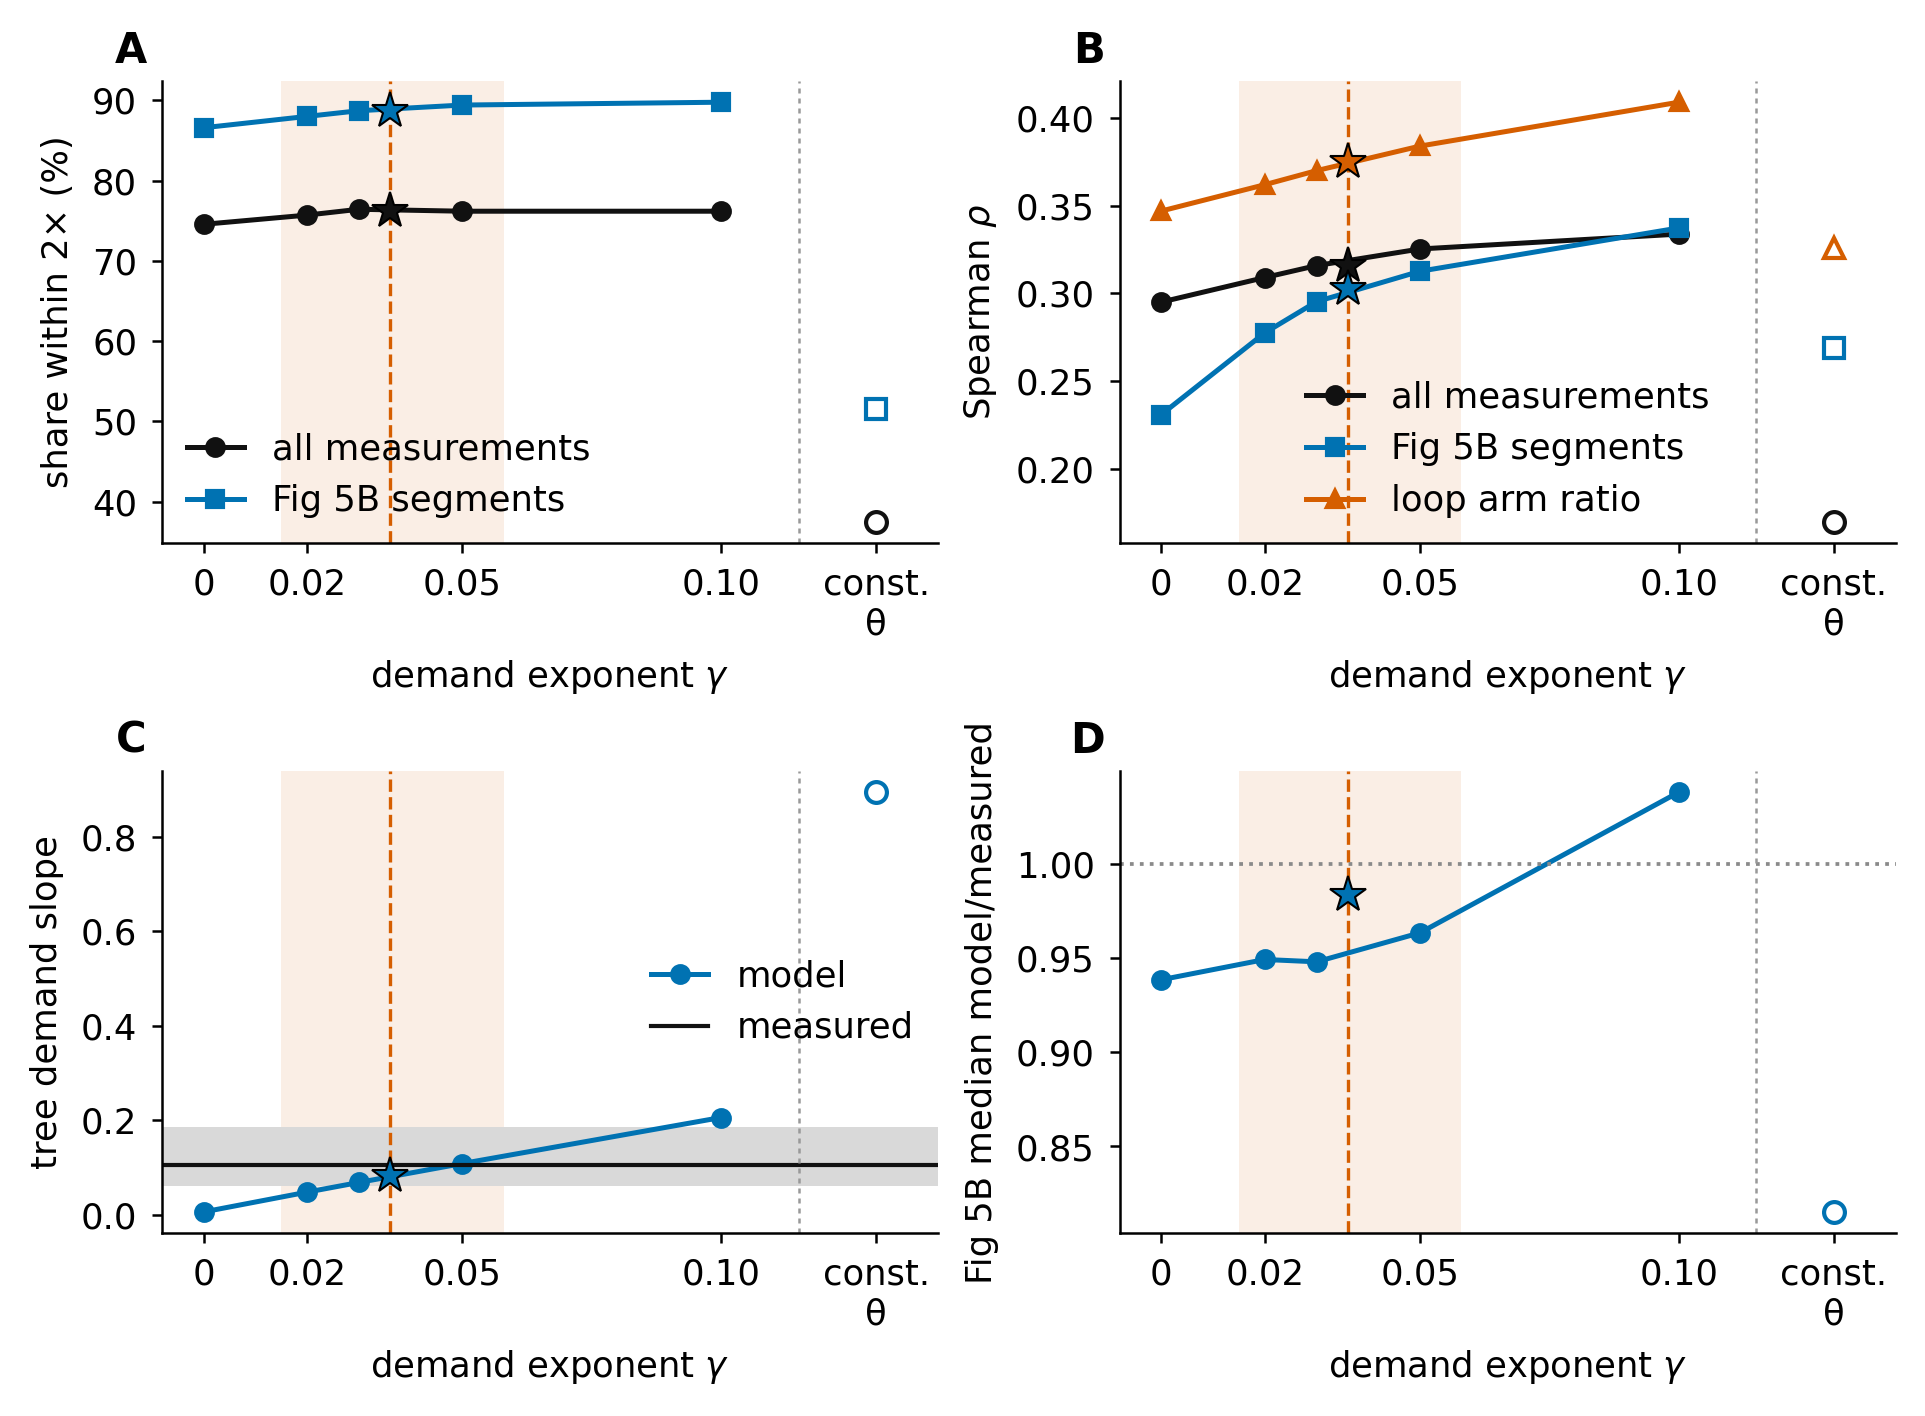
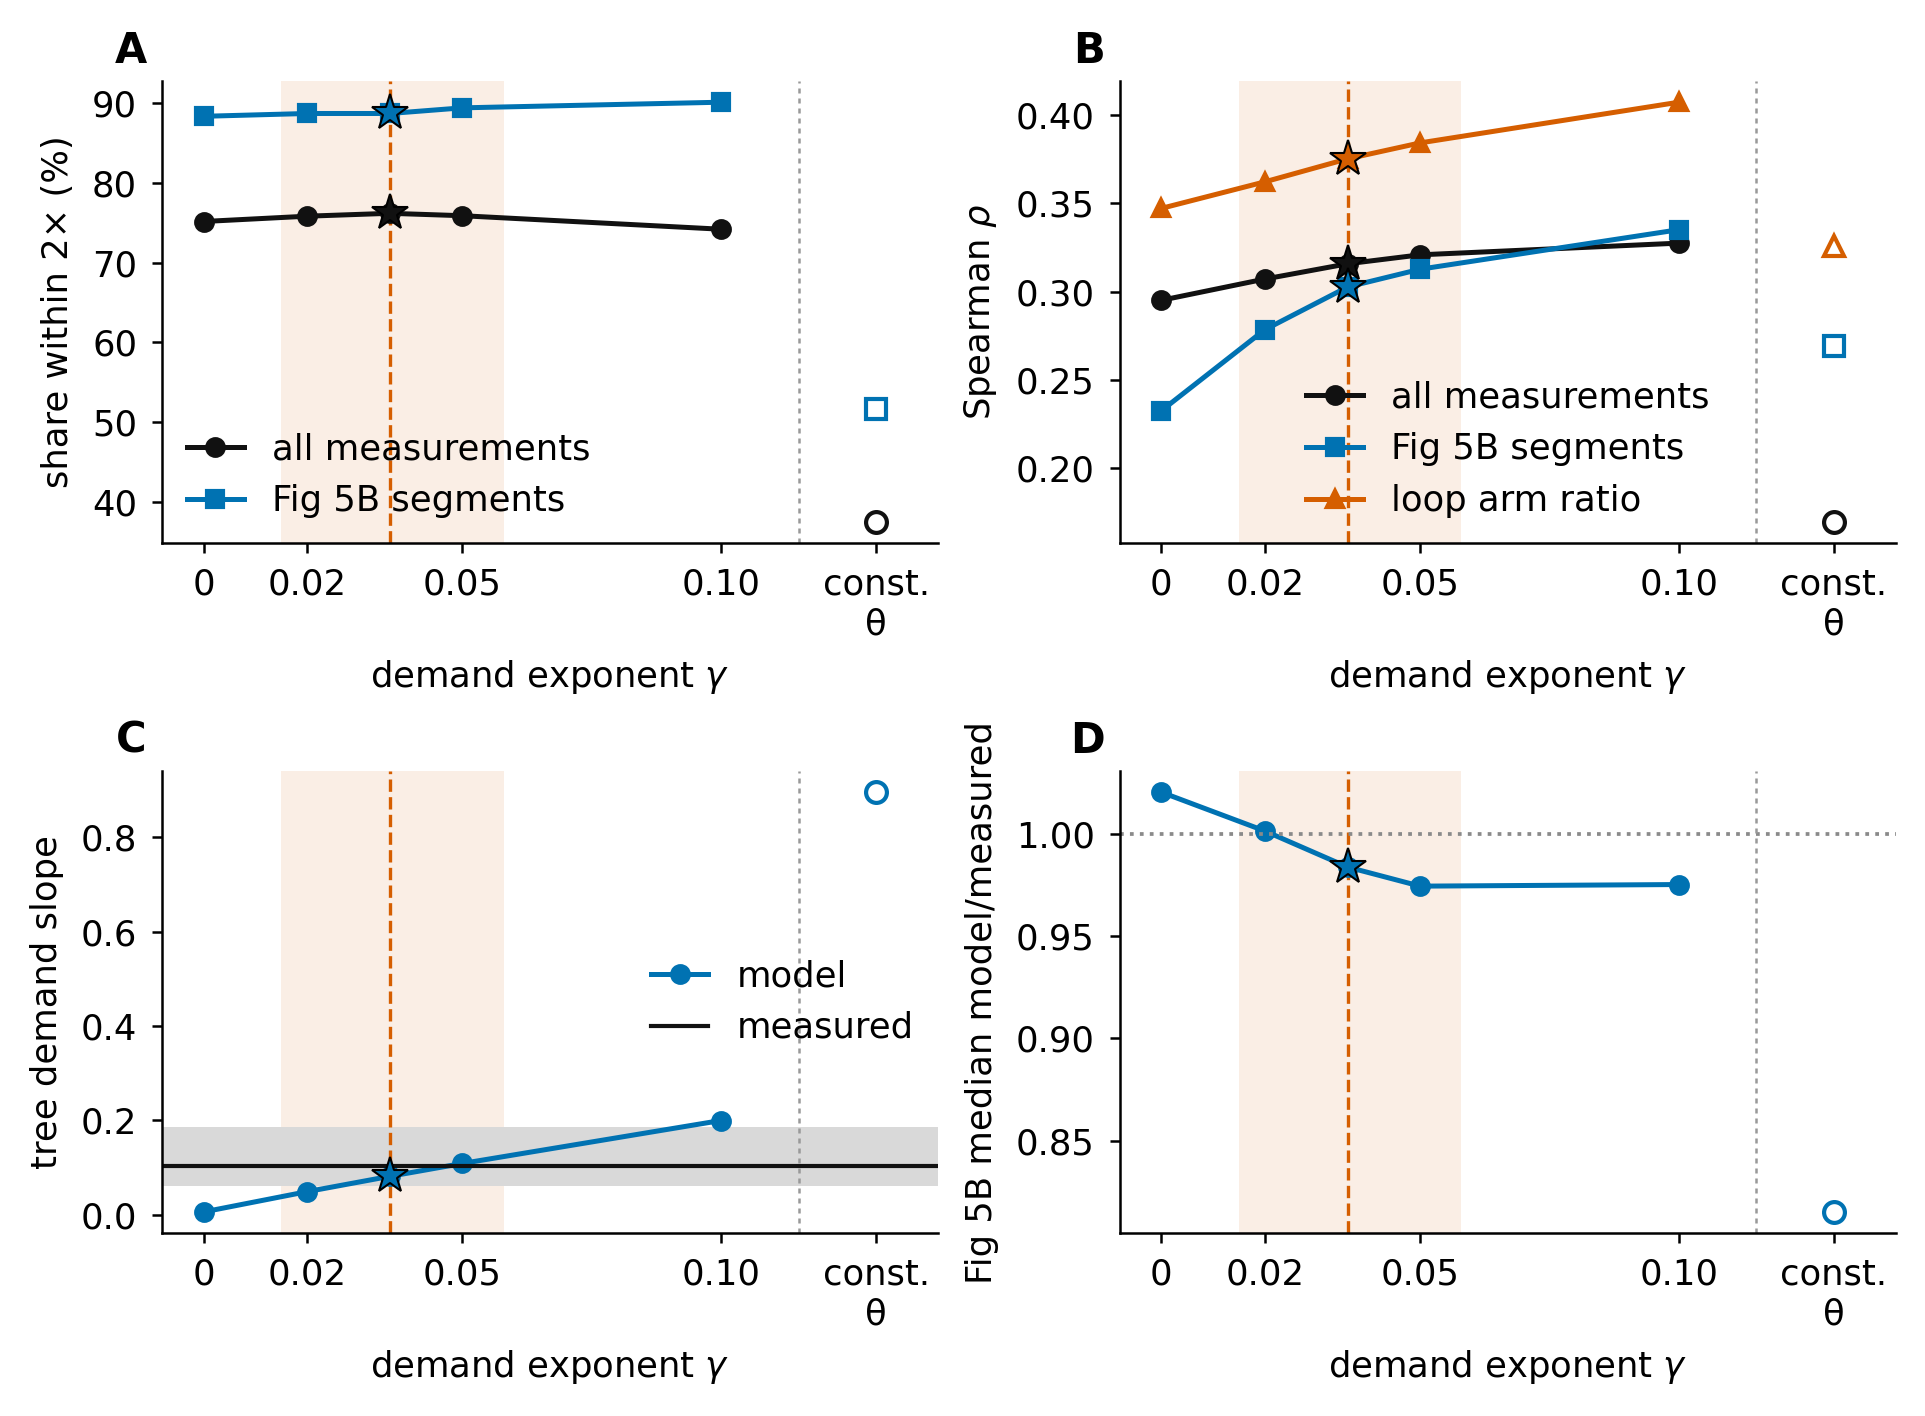
SI gamma sweep on the paper calibration (all points f_m0 0.549, J_ref 2.41); NOTE updated
Snellius 29528422: gamma 0 / 0.02 / 0.036 / 0.05 / 0.10 with the paper calibration; gamma 0.036 reproduces the paper run
exactly. Constant theta 0.03 stays the end marker. No caption prose.

Claude-Session: https://claude.ai/code/session_01S72jkhwWePwGSeZiNtr7qB

diff --git a/02_Article_Supplementary.tex b/02_Article_Supplementary.tex
@@ -852,7 +852,7 @@ This could explain why active transport mechanisms at high speeds are necessary 
 \begin{figure}[htbp]
 \centering
 \includegraphics[width=\textwidth]{suppfig/figS_gamma_sweep.pdf}
-% NOTE (20 Nov, gamma sweep with the constant-theta end marker; caption facts only, words are the user's; source AMF_Transport/scratch/si_paper_figs/gamma_sweep_table.md, script gamma_sweep_fig.py there): whole-network scores against the demand exponent gamma. (A) share within a factor 2, all 1,654 measurements (black) and the 283 Fig 5B trail segments (blue); (B) Spearman rho, all measurements, Fig 5B segments, loop arm ratio (421 loops); (C) tree demand slope (log rootward speed on log J, width controlled) against the measured +0.104 [0.061, 0.186] (line, grey band); (D) Fig 5B median model/measured. Shaded band: Bayes tree-edge posterior of gamma, 95 % interval 0.015-0.058, dashed line its median 0.036. Values: gamma 0 / 0.02 / 0.03 / 0.05 / 0.10: all within 2x 74.5 / 75.7 / 76.4 / 76.2 / 76.2 %; 5B within 2x 86.6 / 88.0 / 88.7 / 89.4 / 89.8 %; all rho 0.30 / 0.31 / 0.32 / 0.33 / 0.33; 5B rho 0.23 / 0.28 / 0.30 / 0.31 / 0.34; loops rho 0.35 / 0.36 / 0.37 / 0.38 / 0.41; tree slope +0.005 / +0.047 / +0.068 / +0.108 / +0.206; 5B median 0.94 / 0.95 / 0.95 / 0.96 / 1.04. Paper model (star, gamma 0.036): 76.2 %, 88.7 %, rho 0.32 / 0.30 / 0.375, slope +0.081, median 0.98. Constant theta (open symbols, best of theta 0.005-0.15, theta 0.03): 37.5 % / 51.6 % within 2x, rho 0.17 / 0.27 / 0.33, tree slope +0.90, 5B median 0.82; at theta 0.03, 40 % of edges sit on the a/b limits 0.45-0.95 (65 % at 0.005, 62 % at 0.15), so no single theta works. The sweep points hold f_m0 0.528 at J_ref 1.23 um^3/s and vary gamma only; the paper model (star) has its own fitted f_m0 0.549 at J_ref 2.41, hence its 5B median above the line. A rerun of the sweep on the paper calibration (Snellius 29524194) will replace the points and put the star on the line.
+% NOTE (20 Nov, gamma sweep on the paper calibration with the constant-theta end marker; caption facts only, words are the user's; source AMF_Transport/scratch/si_paper_figs/gamma_sweep_table.md, script gamma_sweep_fig.py there; runs Snellius 29528422): whole-network scores against the demand exponent gamma, every run on the paper calibration (f_m0 0.549 at J_ref 2.41 um^3/s, theta_e from the current; only gamma varies; gamma 0.036 = the paper model, star, reproduces the paper run exactly). (A) share within a factor 2, all 1,654 measurements (black) and the 283 Fig 5B trail segments (blue); (B) Spearman rho, all measurements, Fig 5B segments, loop arm ratio (421 loops); (C) tree demand slope (log rootward speed on log J, width controlled) against the measured +0.104 [0.061, 0.186] (line, grey band); (D) Fig 5B median model/measured. Shaded band: Bayes tree-edge posterior of gamma, 95 % interval 0.015-0.058, dashed line its median 0.036. Values gamma 0 / 0.02 / 0.036 / 0.05 / 0.10: all within 2x 75.2 / 75.8 / 76.2 / 75.9 / 74.2 %; 5B within 2x 88.3 / 88.7 / 88.7 / 89.4 / 90.1 %; all rho 0.295 / 0.307 / 0.316 / 0.321 / 0.327; 5B rho 0.23 / 0.28 / 0.30 / 0.31 / 0.34; loops rho 0.35 / 0.36 / 0.375 / 0.38 / 0.41; tree slope +0.006 / +0.049 / +0.081 / +0.109 / +0.200; 5B median 1.02 / 1.00 / 0.98 / 0.97 / 0.98; f_m median 0.549 / 0.544 / 0.540 / 0.537 / 0.524, never clipped. Constant theta (open symbols, best of theta 0.005-0.15, theta 0.03): 37.5 % / 51.6 % within 2x, rho 0.17 / 0.27 / 0.33, tree slope +0.90, 5B median 0.82; at theta 0.03, 40 % of edges sit on the a/b limits 0.45-0.95 (65 % at 0.005, 62 % at 0.15), so no single theta works. Reading: the all-measurement within-2x share peaks at the fitted gamma (76.2 %); correlations rise slowly to gamma 0.10; the tree slope crosses the measured value between 0.036 and 0.05.
 \caption{\textbf{[Caption to write.]}}\label{fig:si_gamma_sweep}
 \end{figure}
 % NOTE (19 Nov, Eq. 6 tree-edge test; caption outline only, words are the user's): Eq. 6 (eq:tree_backflow_speed) on tree-like edges, q_w = 0, v_b/v_m = (1 - theta) f_m/(1 - f_m); prediction 1.09 at f_m 0.53 and the median theta_e (0.027). Data: 99 bright-field measurements (one per edge and video, both streams) on 97 tree-like edges, 13 imaging days, 5 plates. (A) v_b against v_m; bars = within-video IQR (25th-75th percentile of the speed distribution whose median is the point); Eq. 6 line with +-50 % band, OLS fit. (B) v_b/v_m against diameter 2r, (C) against J_ij (axis 0-7 um^3/s; 6 points beyond, kept in the statistics); bars = within-video IQRs propagated to the ratio; quintile medians with IQR band. Numbers: median v_b/v_m 1.14 [1.09, 1.21]; through-origin k 1.22 -> f_m 0.556; diameter slope with J fixed, weighted, +0.026 per um [-0.05, 0.09]; J_ij slope with D fixed, weighted, +0.031 per um^3/s [0.008, 0.060]. CIs: imaging-day bootstrap, 2,000 draws. Source: AMF_Transport/scratch/eq6_tests (results.md, weighted_check.txt); figure script transport_paper Working_notebooks/manuscript_figures/figS_eq6_tree_test.py.
